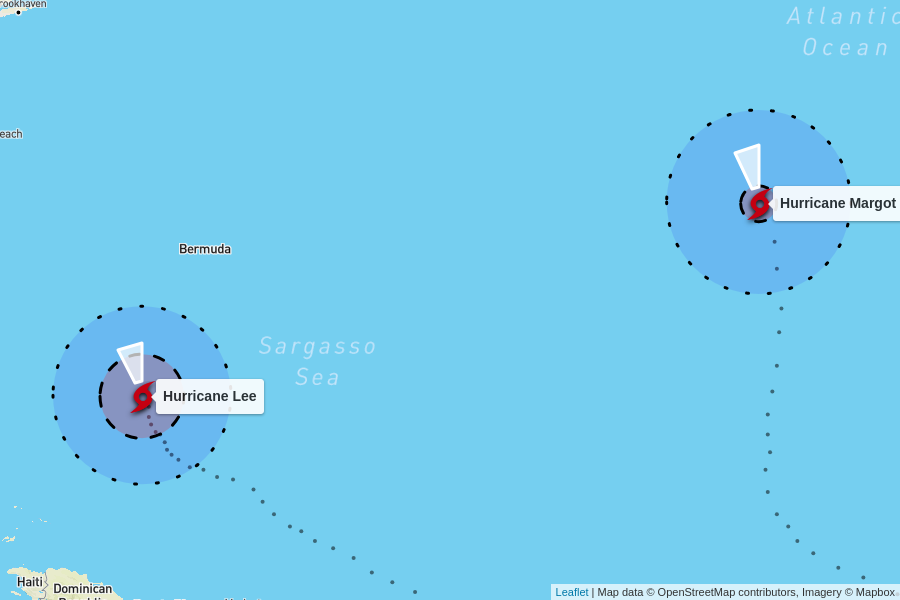
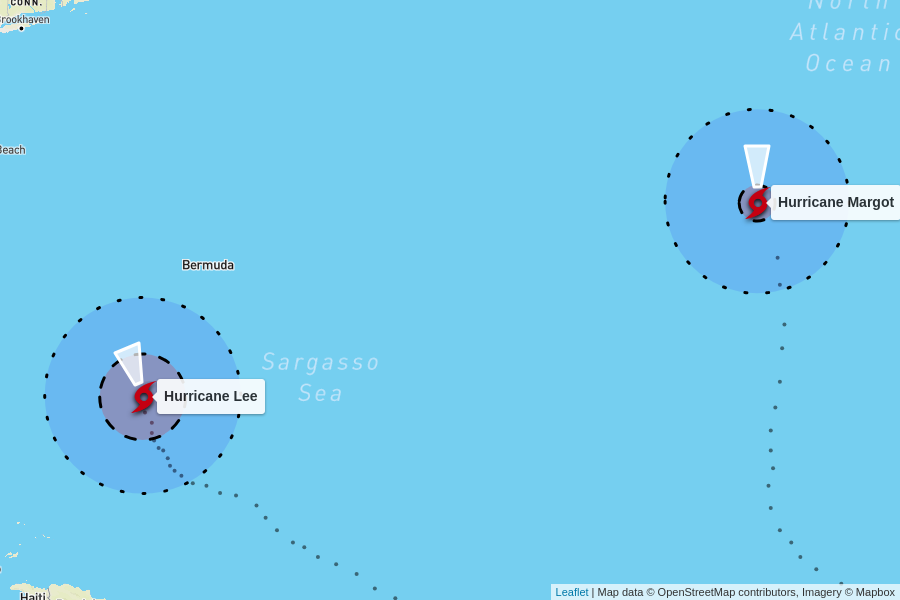
automatic update

diff --git a/docs/index.html b/docs/index.html
@@ -104,7 +104,7 @@
         <td colspan="6" class="storm category-2" >
           <h2>
             Hurricane Lee - Category 2
-            <p class="updated">last updated <span data-time>2023-09-13T18:00:00.000Z</span></p>
+            <p class="updated">last updated <span data-time>2023-09-13T21:00:00.000Z</span></p>
           </h2>
         </td>
       </tr>
@@ -119,12 +119,12 @@
       </tr>
       <tr>
         <td class="spacer"></td>
-        <td>110 mph<br>-5 mph since last update</td>
-        <td>952 mb<br>+4 mb since last update</td>
+        <td>105 mph<br>-5 mph since last update</td>
+        <td>952 mb<br>0 mb since last update</td>
         <td>
-          9 mph to the north-northwest
+          10 mph to the north-northwest
           <br/>
-          <span style="display: inline-block; font-size: 1.5em; transform: rotate(345deg);">↑</span>
+          <span style="display: inline-block; font-size: 1.5em; transform: rotate(340deg);">↑</span>
         </td>
         <td><a href="https://raw.githubusercontent.com/mgwalker/atlantic-hurricanes/main/data/csv/AL132023.csv">AL132023.csv</a></td>
         <td><a href="https://www.nhc.noaa.gov/archive/2023/LEE.shtml?">NHC advisories</a></td>
@@ -148,7 +148,7 @@
         <td colspan="6" class="storm category-1" >
           <h2>
             Hurricane Margot - Category 1
-            <p class="updated">last updated <span data-time>2023-09-13T15:00:00.000Z</span></p>
+            <p class="updated">last updated <span data-time>2023-09-13T21:00:00.000Z</span></p>
           </h2>
         </td>
       </tr>
@@ -163,12 +163,12 @@
       </tr>
       <tr>
         <td class="spacer"></td>
-        <td>90 mph<br>+5 mph since last update</td>
-        <td>970 mb<br>-5 mb since last update</td>
+        <td>90 mph<br>0 mph since last update</td>
+        <td>971 mb<br>+1 mb since last update</td>
         <td>
-          7 mph to the north-northwest
+          7 mph to the north
           <br/>
-          <span style="display: inline-block; font-size: 1.5em; transform: rotate(345deg);">↑</span>
+          <span style="display: inline-block; font-size: 1.5em; transform: rotate(360deg);">↑</span>
         </td>
         <td><a href="https://raw.githubusercontent.com/mgwalker/atlantic-hurricanes/main/data/csv/AL142023.csv">AL142023.csv</a></td>
         <td><a href="https://www.nhc.noaa.gov/archive/2023/MARGOT.shtml?">NHC advisories</a></td>
